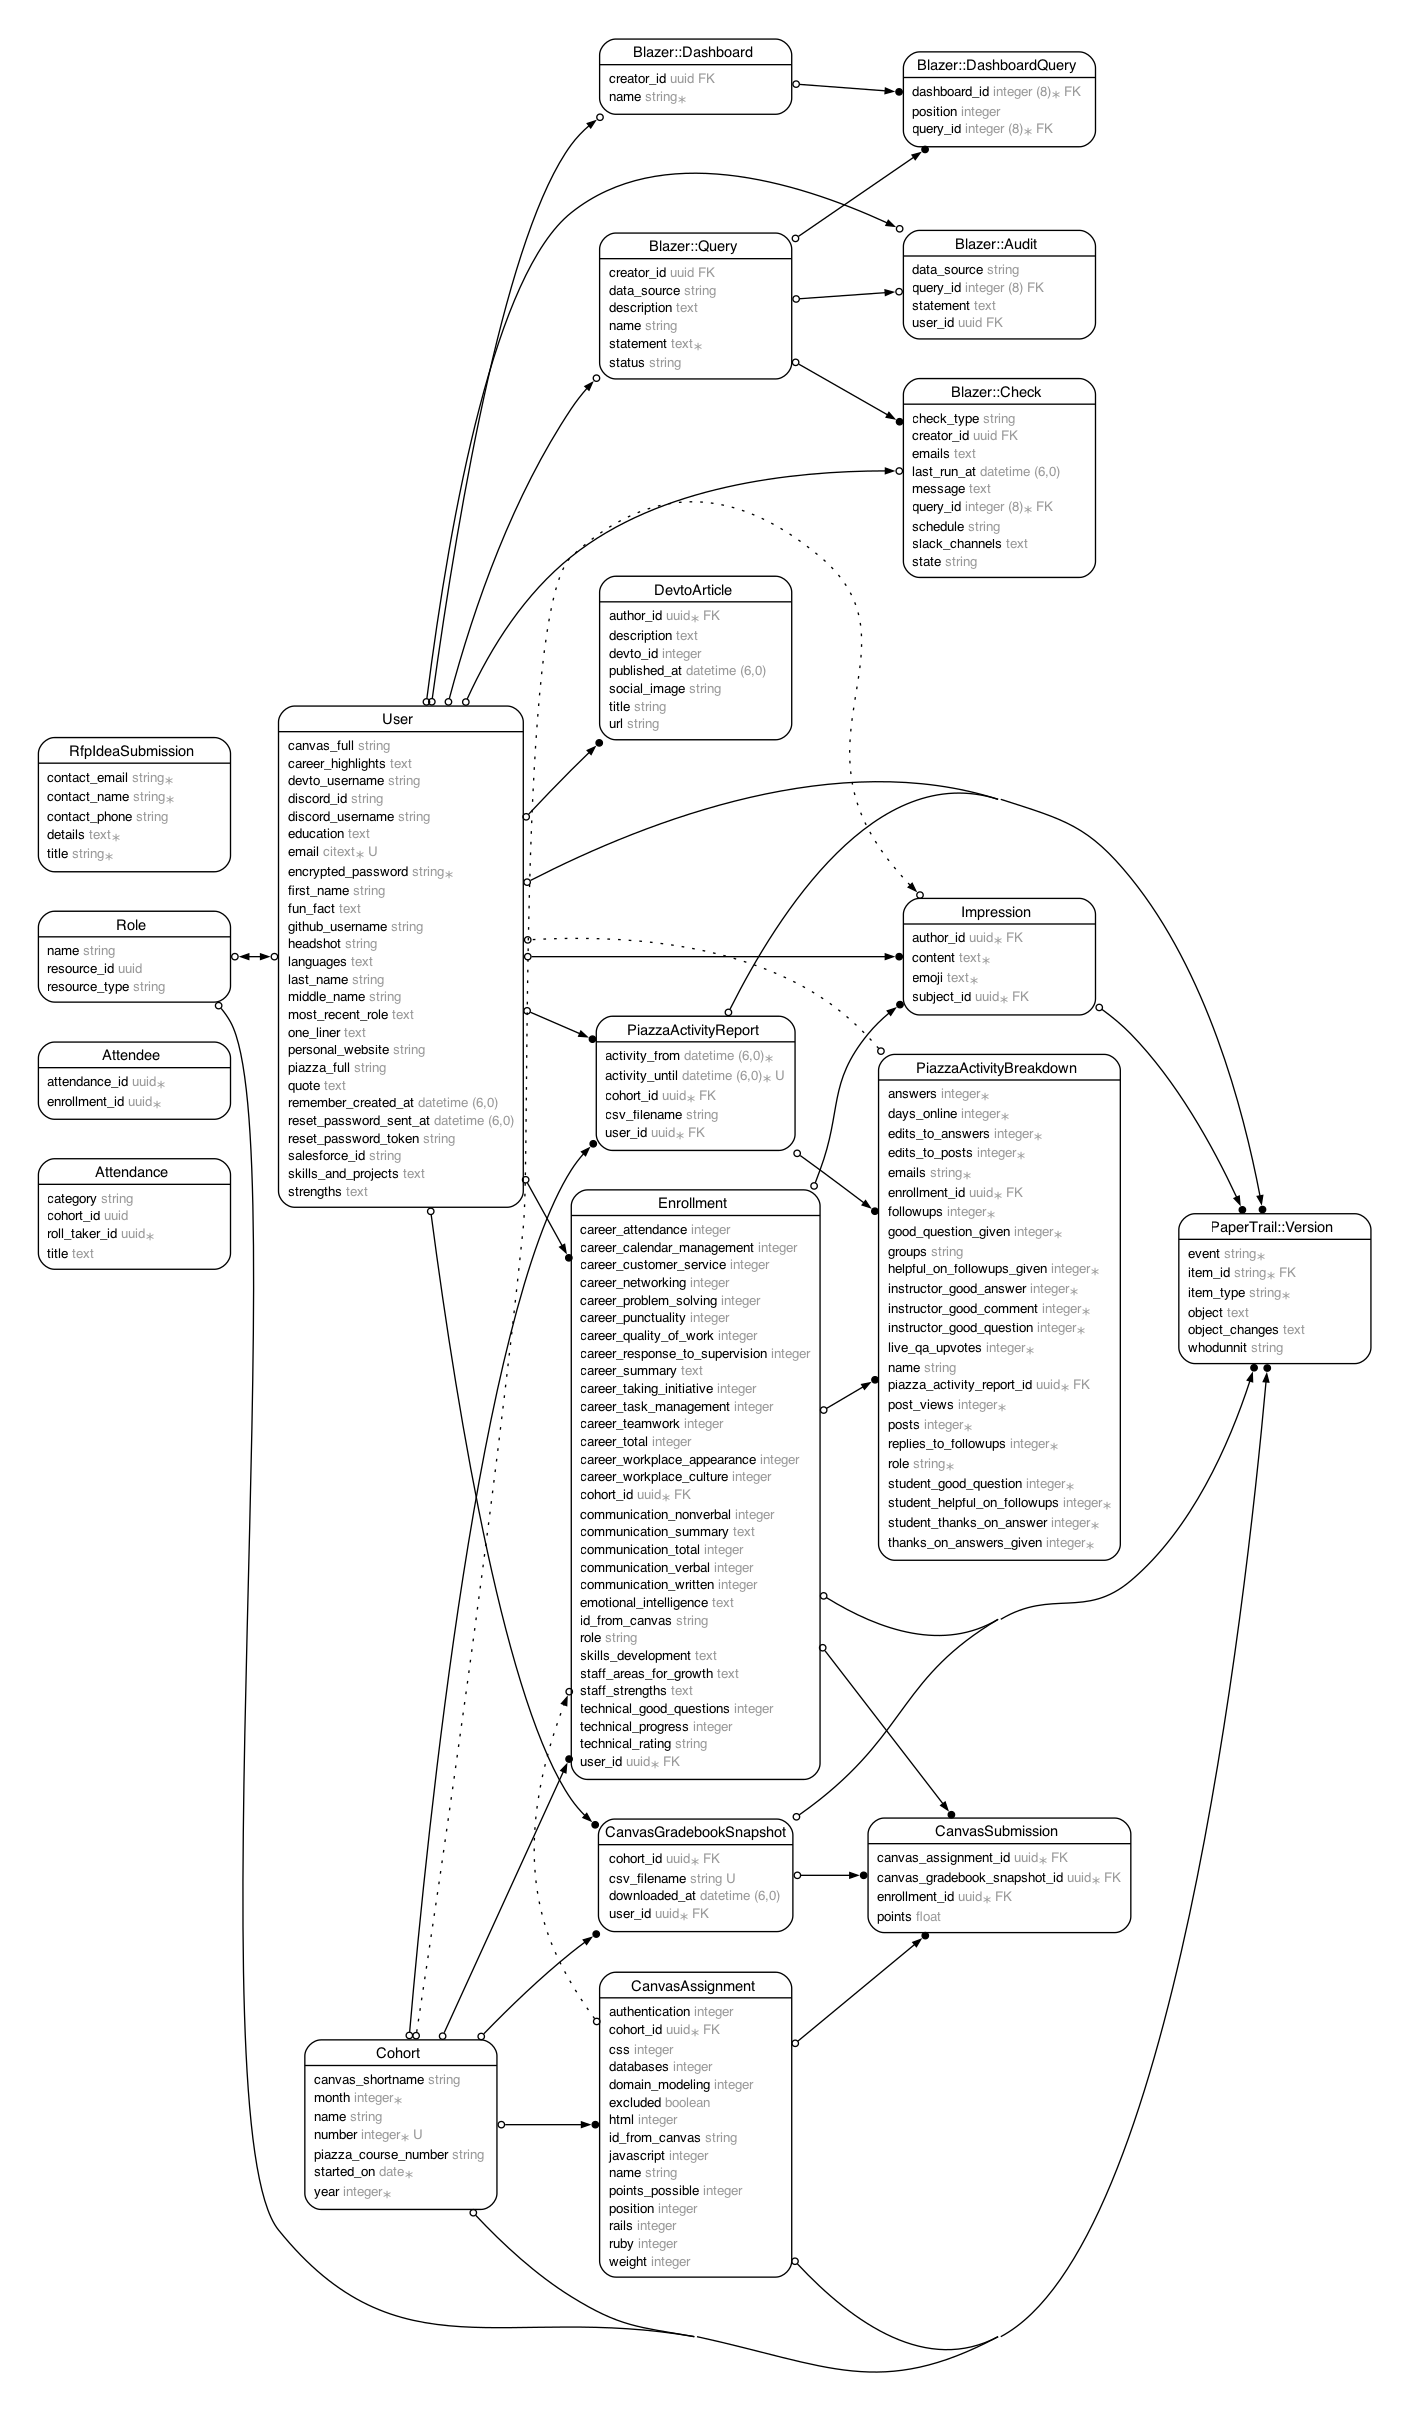
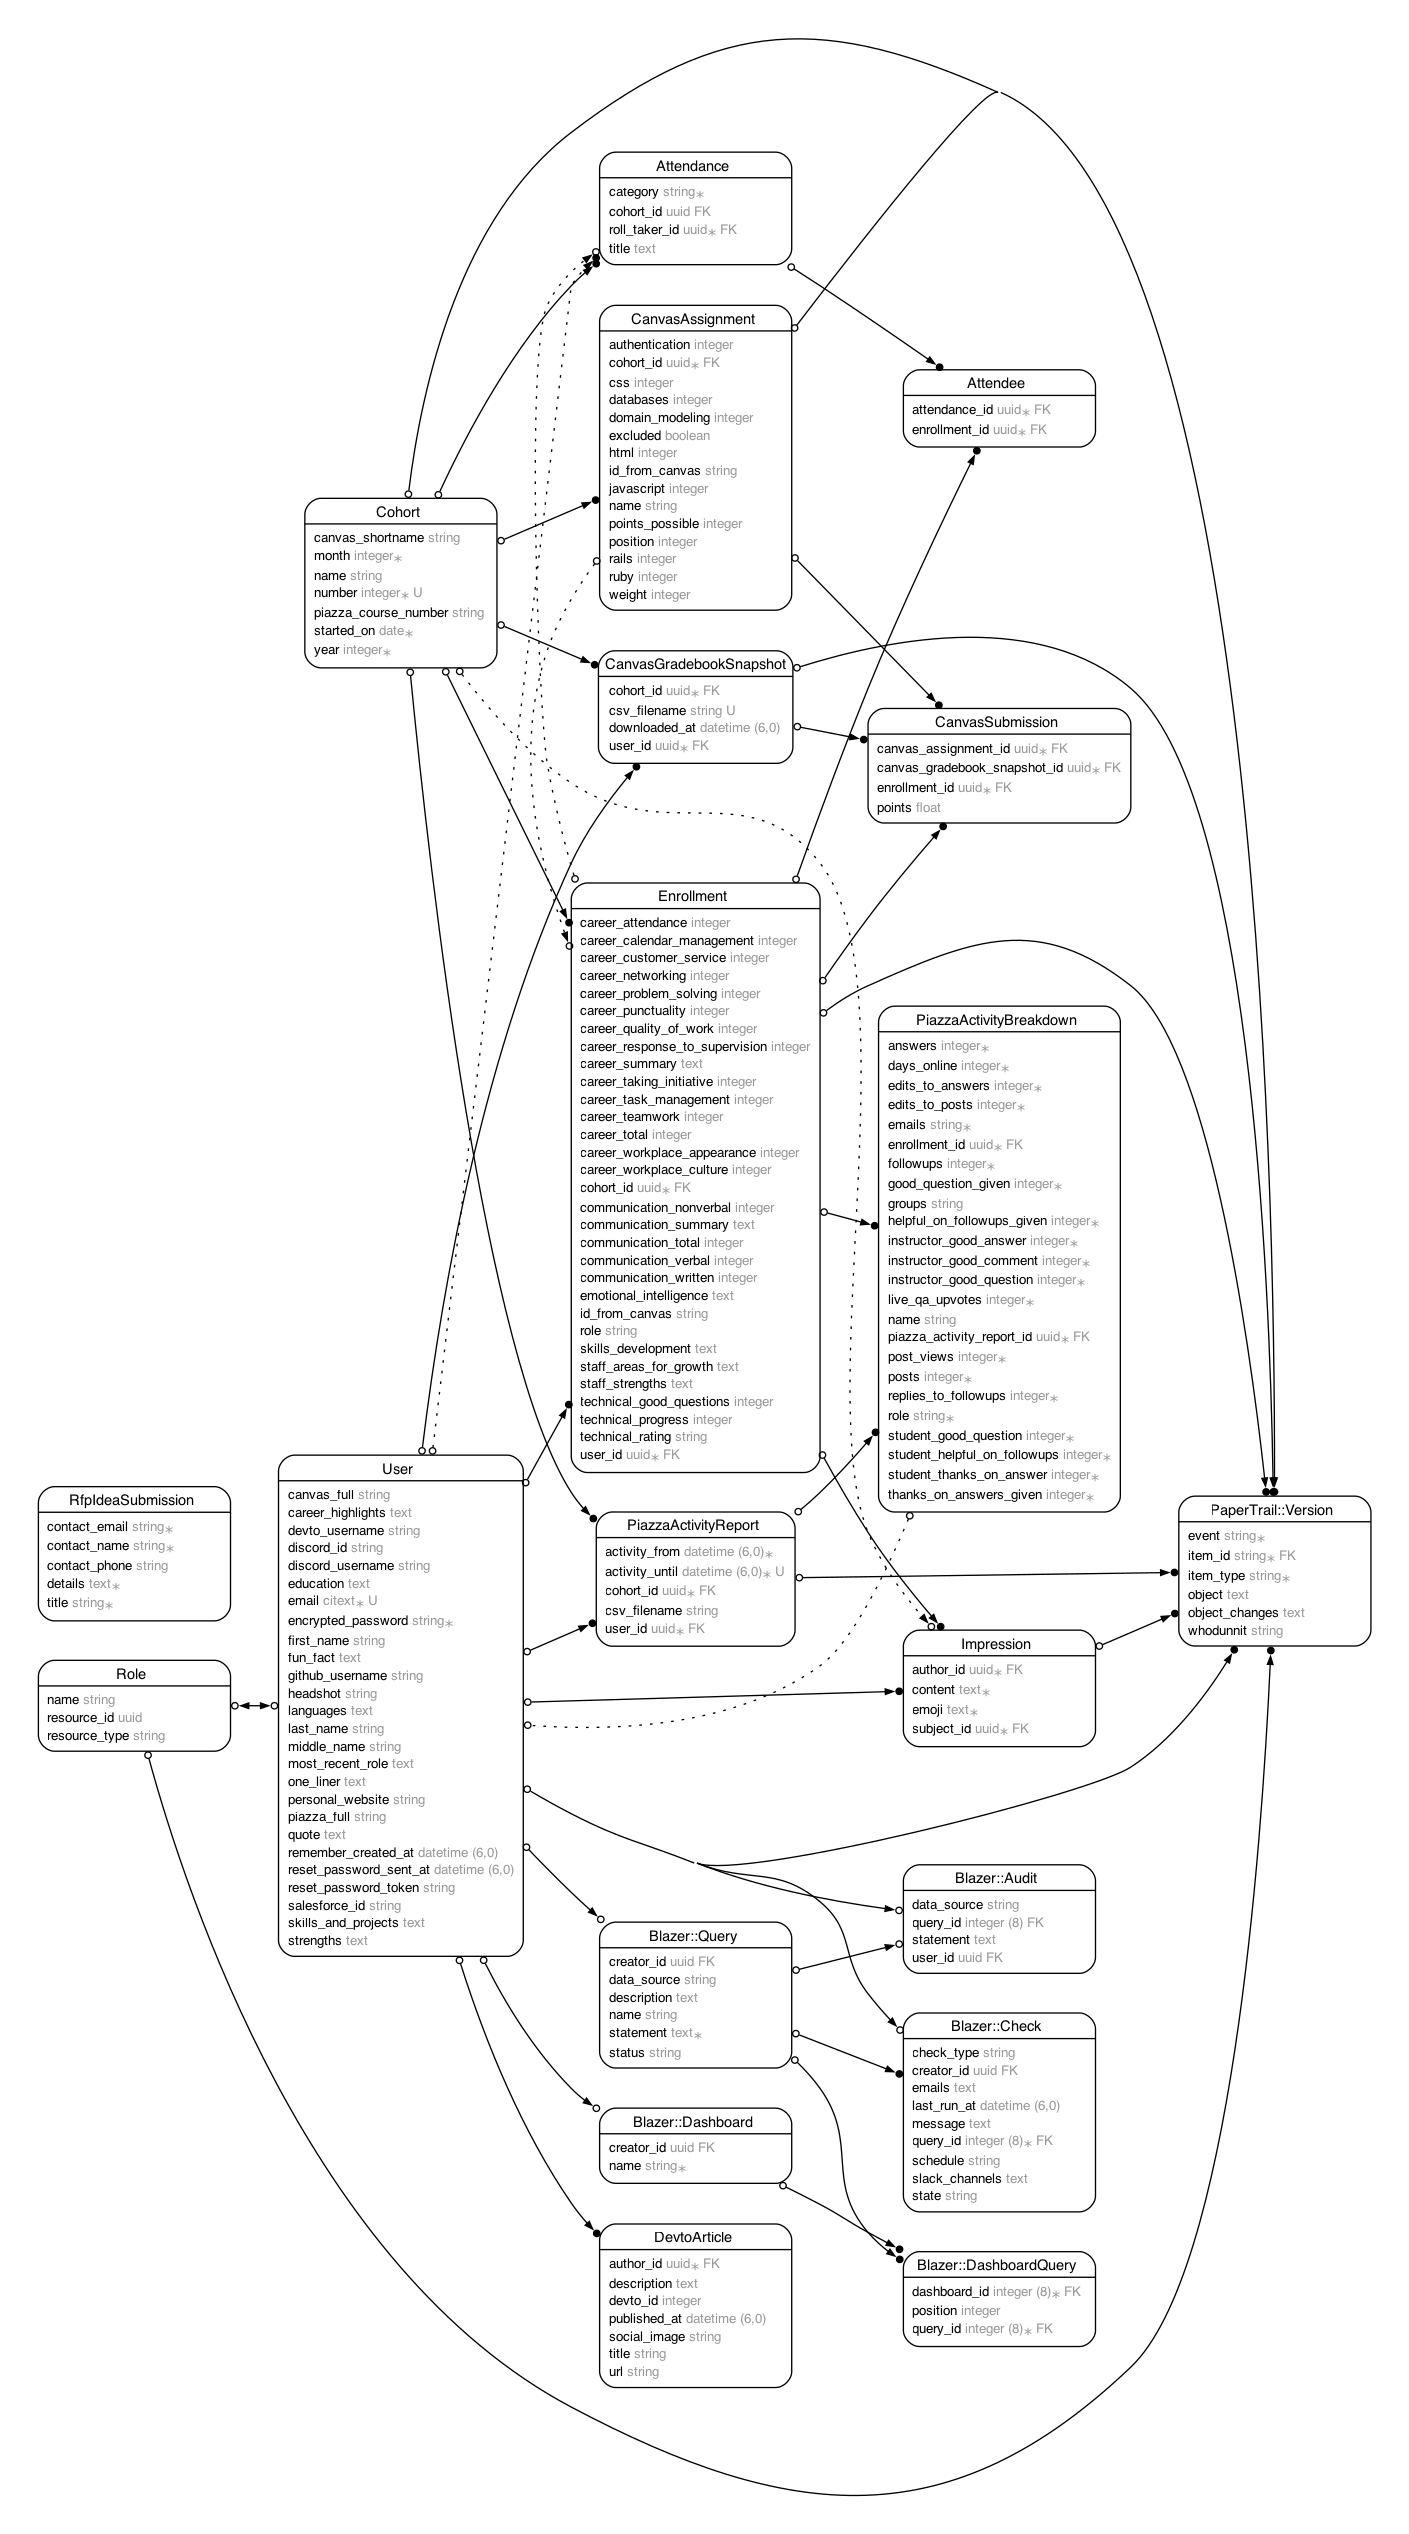
rollback to include not null for category

diff --git a/db/migrate/20250203211652_create_attendances.rb b/db/migrate/20250203211652_create_attendances.rb
@@ -2,7 +2,7 @@ class CreateAttendances < ActiveRecord::Migration[7.0]
   def change
     create_table :attendances, id: :uuid do |t|
       t.text :title
-      t.string :category
+      t.string :category, null: false
       t.references :roll_taker, null: false, foreign_key: { to_table: :users }, type: :uuid
       t.references :cohort, null: :false, foreign_key: true, type: :uuid
 

diff --git a/db/schema.rb b/db/schema.rb
@@ -18,7 +18,7 @@ ActiveRecord::Schema[7.0].define(version: 2025_02_03_211855) do
 
   create_table "attendances", id: :uuid, default: -> { "gen_random_uuid()" }, force: :cascade do |t|
     t.text "title"
-    t.string "category"
+    t.string "category", null: false
     t.uuid "roll_taker_id", null: false
     t.uuid "cohort_id"
     t.datetime "created_at", null: false
